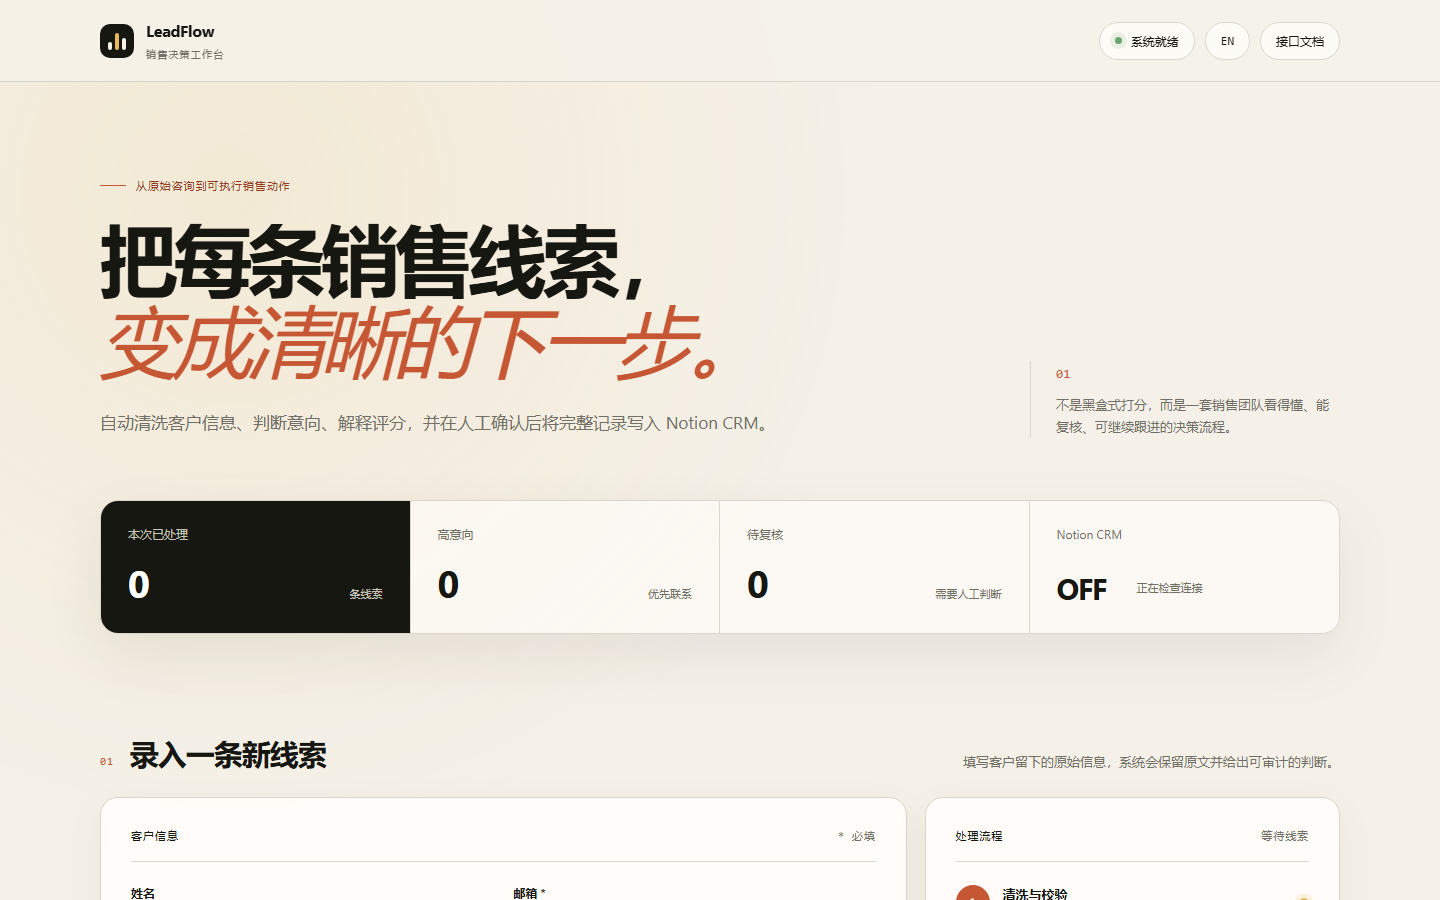
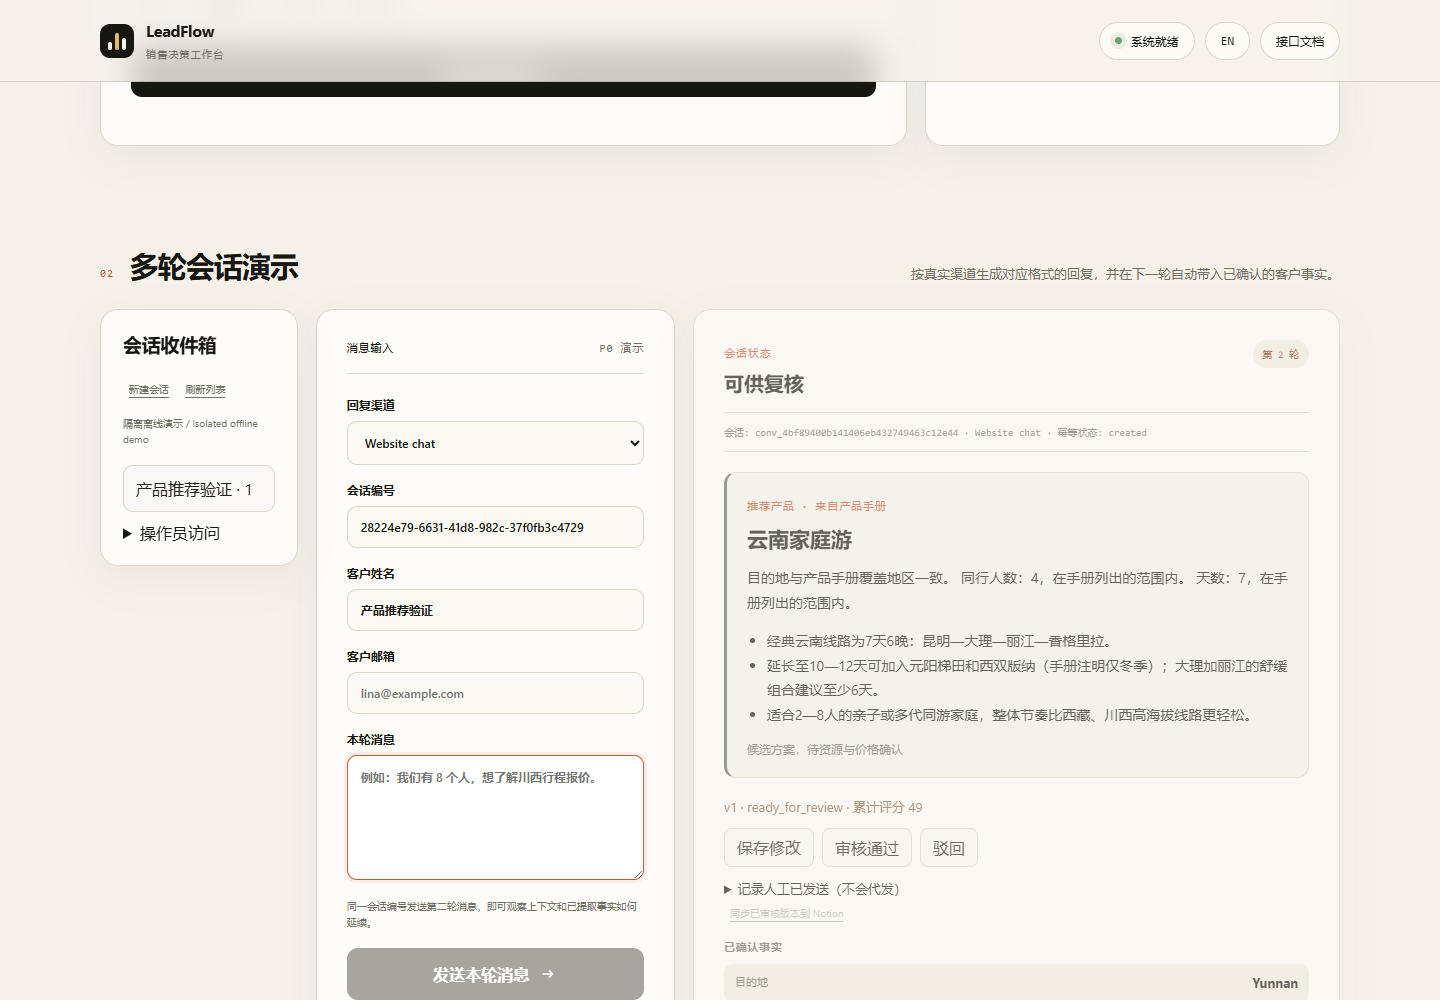
feat: showcase live product-grounded sales demo

diff --git a/data/content.ts b/data/content.ts
@@ -34,7 +34,7 @@ const securePrDemoUrl =
 const finCreditDemoUrl =
   process.env.NEXT_PUBLIC_FINCREDIT_DEMO_URL ||
   "https://fincredit-copilot-demo.onrender.com/";
-const salesDemoUrl = process.env.NEXT_PUBLIC_SALES_DEMO_URL;
+const salesDemoUrl = process.env.NEXT_PUBLIC_SALES_DEMO_URL || "https://leadflow-sales-demo.onrender.com/";
 
 export const profile = {
   nameZh: "石卓灵",
@@ -175,22 +175,22 @@ export const projects: Record<Language, Project[]> = {
       accent: "blue",
       repo: "https://github.com/jorlin1101-cyber/ai-sales-lead-crm-automation",
       demo: salesDemoUrl,
-      localDemo: "http://127.0.0.1:8010/",
+      localDemo: "http://127.0.0.1:8011/",
       previewImage: "/assets/sales-ui-preview.png",
       audience: "需要处理邮件、网站表单等线索，并希望统一判断、回复和沉淀客户信息的销售运营团队。",
-      capabilities: ["清洗并提取多渠道线索中的结构化事实", "结合规则评分与 RAG 证据生成下一步建议", "按渠道生成回复草稿，并保存多轮上下文与 CRM 记录"],
-      quickStart: ["输入一条来自邮件、网站表单或其他渠道的客户消息。", "查看事实提取、线索评分、意向判断及知识库证据。", "生成与渠道匹配的回复草稿，并补充第二轮客户消息。", "确认后将客户状态、对话摘要和下一步动作写入 CRM / Notion。"],
-      demoNote: "当前案例页展示完整使用路径与评测结果；交互版本可按 GitHub 文档在本地运行。",
+      capabilities: ["从产品手册匹配目的地、人数和天数，展示推荐理由与证据", "保存多轮客户偏好，按邮件或聊天渠道生成回复草稿", "支持通义千问理解与草稿生成、人工审核和 CRM / Notion 同步"],
+      quickStart: ["进入系统，输入例如：4个人想去云南玩7天，请推荐产品。", "查看产品推荐、适配理由和产品手册来源。", "在同一对话补充酒店等级、用车需求和导游语言，检查更新后的回复。", "公网访客仅体验隔离演示；真实模型与 Notion 写入需受保护的运营配置。"],
+      demoNote: "公网版本使用离线手册检索与规则回复，不调用付费 LLM，也不写入真实 Notion。免费服务首次打开可能较慢；演示记录可能随服务重启清空，请勿提交真实客户隐私。",
       metrics: [
         { label: "标注查询 Hit@1", value: "18 / 18" },
         { label: "标注查询 Hit@3", value: "18 / 18" },
-        { label: "测试通过", value: "577 项" },
+        { label: "测试通过", value: "699 项" },
       ],
       caseStudy: {
         context: "面向销售线索、评分与客户跟进场景，建立从数据清洗到 CRM 路由的端到端决策原型。",
         challenge: "客户信息分散在文本、表单和历史记录中，模型如果直接给建议，难以追溯事实来源和判断依据。",
-        approach: ["使用 FastAPI / Pydantic 建立强类型数据链路，LLM 只负责提取结构化事实。", "对 H2 文档切分 47 个 Chunk，融合 BGE-M3、BM25 与 RRF 进行检索。", "将建议绑定 Top-3 证据、Reason Code 和未知状态，阻断注入与结构异常。"],
-        outcome: "在 18 条人工标注查询上，Hit@1 与 Hit@3 均为 18 / 18，完成 577 项测试并达到 95% 覆盖率。",
+        approach: ["使用 FastAPI / Pydantic 管理结构化事实与多轮状态；通义千问支持事实理解和有据草稿生成，规则负责最终产品约束。", "支持 BGE-M3、BM25 与 RRF 检索；公开演示采用无需外部模型的 keyword-RRF，产品信息来自同一手册快照。", "保留产品来源、适配限制与人工确认；支持 PostgreSQL 持久化和可重试 CRM 同步，访客禁止真实外部写入。"],
+        outcome: "既有 18 条人工标注检索查询中，Hit@1 与 Hit@3 均为 18 / 18；本次回归 699 项测试通过，2 项 PostgreSQL 测试因本地未配置数据库跳过，覆盖率 95.21%。",
         constraints: "评测规模较小，结果用于验证方案可行性；真实部署仍需补充更多行业数据和人工复核。",
       },
     },
@@ -257,17 +257,17 @@ projects.en = projects.zh.map((project) => ({
   } as Record<string, string>)[project.slug],
   capabilities: ({
     "securepr-agent": ["Coordinate specialist reviewers over a PR diff", "Locate risks with AST and rule-based evidence", "Generate and verify repair suggestions before human approval"],
-    "ai-sales-lead-crm-automation": ["Extract typed facts from multi-channel lead messages", "Combine deterministic scoring with RAG-grounded next actions", "Draft channel-aware replies while preserving multi-turn context and CRM history"],
+    "ai-sales-lead-crm-automation": ["Match products from manuals with evidence and fit constraints", "Preserve customer preferences across turns and draft channel-aware replies", "Support Qwen-grounded drafting, human review, and CRM / Notion synchronization"],
     "fincredit-copilot": ["Show role-specific application progress, documents, and conditions", "Retrieve national policy and Chengdu rules with sources", "Run deterministic DTI / LTV calculations while reserving the decision for a human"],
   } as Record<string, string[]>)[project.slug],
   quickStart: ({
     "securepr-agent": ["Choose or paste a PR diff to review.", "Start the run and follow each reviewer’s task state and evidence.", "Inspect findings, proposed fixes, verification results, and the run trace."],
-    "ai-sales-lead-crm-automation": ["Enter a customer message from email, a web form, or another channel.", "Review extracted facts, lead score, intent, and retrieved evidence.", "Generate a channel-appropriate draft, then add a second customer message.", "Confirm the outcome and write the customer state, summary, and next action to CRM / Notion."],
+    "ai-sales-lead-crm-automation": ["Enter a request such as: Recommend a 7-day Yunnan trip for four people.", "Review the recommended product, fit reasons, and manual evidence.", "Add hotel, vehicle, and guide preferences in the same conversation and review the updated reply.", "Public visitors use an isolated demo; live models and Notion delivery require protected operator configuration."],
     "fincredit-copilot": ["Choose the borrower, loan officer, or underwriter role.", "Enter the corresponding demo workspace.", "Follow the prompts to inspect documents, run a risk profile, or ask the assistant.", "Leave the final credit decision to the authorized human reviewer."],
   } as Record<string, string[]>)[project.slug],
   demoNote: ({
     "securepr-agent": "The demo uses controlled examples and never changes a real repository. Start with a preset case.",
-    "ai-sales-lead-crm-automation": "This case study explains the complete user path and evaluation. Run the interactive version locally by following the GitHub guide.",
+    "ai-sales-lead-crm-automation": "The public demo uses offline manual retrieval and rule-based replies, with no paid LLM calls or real Notion writes. Free hosting may start slowly and demo records may reset after a restart. Do not enter real customer data.",
     "fincredit-copilot": "Every person, amount, and approval outcome is fictional demo data and does not constitute lending advice.",
   } as Record<string, string>)[project.slug],
   metrics: project.metrics.map((metric) => ({
@@ -298,12 +298,12 @@ projects.en = projects.zh.map((project) => ({
     } as Record<string, string>)[project.slug],
     approach: ({
       "securepr-agent": ["A Runtime Harness manages task state, token / time budgets, checkpoints, and resume-from-breakpoint.", "Lead, Specialists, Critic, Fixer, and Verifier form a review-and-repair loop.", "Prompt / Skill versions pass through Validation and Holdout gates for deduplication, audit, and rollback."],
-      "ai-sales-lead-crm-automation": ["FastAPI / Pydantic create a typed data path; the LLM only extracts structured facts.", "47 H2 document chunks are searched with BGE-M3, BM25, and RRF.", "Recommendations are bound to Top-3 evidence, Reason Codes, and unknown states."],
+      "ai-sales-lead-crm-automation": ["FastAPI / Pydantic manage typed facts and conversation state; Qwen supports understanding and grounded drafting, with deterministic product constraints.", "BGE-M3, BM25, and RRF retrieval are supported; the public demo uses offline keyword-RRF and the same product manual snapshot.", "Evidence, fit constraints, human review, PostgreSQL persistence, and retryable CRM delivery are supported; public visitors cannot perform real external writes."],
       "fincredit-copilot": ["Documents, Chinese statuses, approval conditions, and disclosure acknowledgements become one continuous flow.", "National policy and Chengdu rules are managed separately, with scope and sources shown in answers.", "Deterministic logic owns DTI / LTV calculations; the agent explains and guides."],
     } as Record<string, string[]>)[project.slug],
     outcome: ({
       "securepr-agent": "On 100 synthetic, controlled PR diffs, reproducible risk-identification F1 improved from 81.9% to 91.3%.",
-      "ai-sales-lead-crm-automation": "On 18 human-labeled queries, Hit@1 and Hit@3 both reached 18 / 18, with 577 tests passing and 95% coverage.",
+      "ai-sales-lead-crm-automation": "The existing 18-query retrieval evaluation reached 18 / 18 Hit@1 and Hit@3. The latest regression passed 699 tests with 95.21% coverage; two PostgreSQL tests were skipped without a local database.",
       "fincredit-copilot": "Delivered role-based demo interfaces for borrowers, loan officers, and underwriters, centered on policy evidence, deterministic calculations, and human confirmation.",
     } as Record<string, string>)[project.slug],
     constraints: ({
